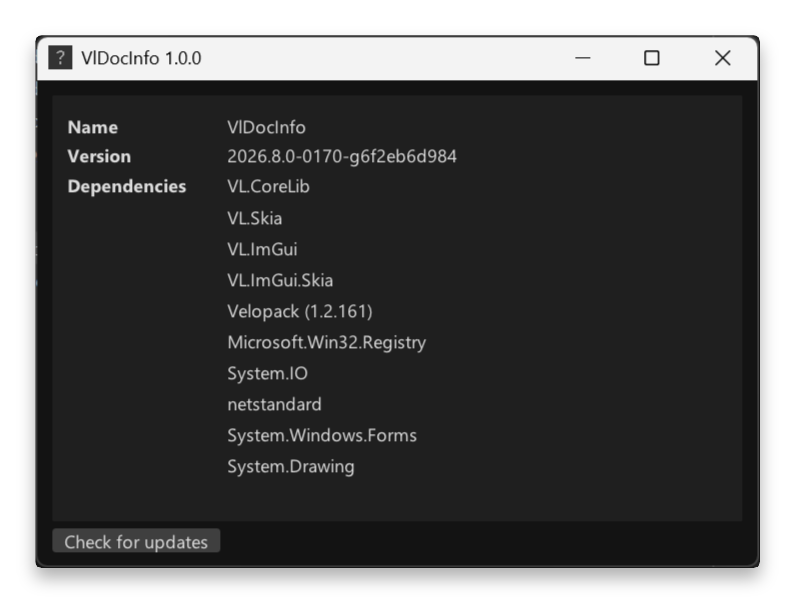
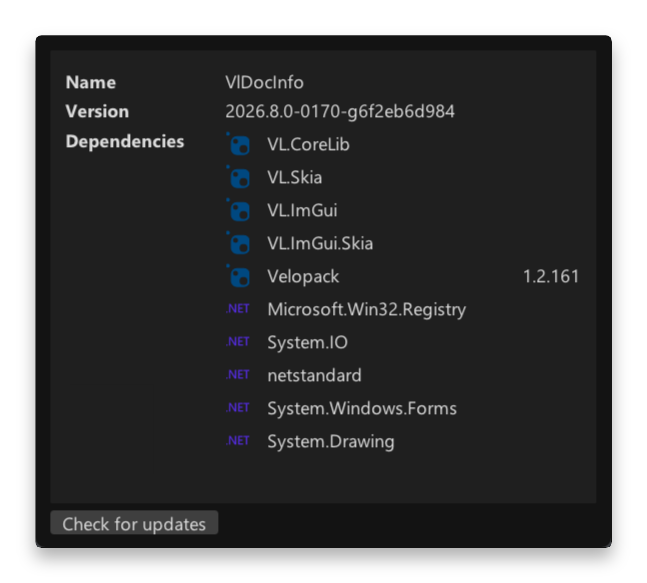
Adds README, updates screenshots

Changed region(s): [[0.0309, 0.0309, 0.9583, 0.9571], [0.8037, 0.4631, 0.8964, 0.494]]

diff --git a/README.md b/README.md
@@ -1,0 +1,36 @@
+# VlDocInfo
+
+[![vvvv](https://img.shields.io/static/v1?label=MADE%20WITH&message=VVVV&color=191919&style=for-the-badge)](https://vvvv.org/) ![GitHub Release](https://img.shields.io/github/v/release/sebescudie/vldocinfo?include_prereleases&style=for-the-badge&logo=github&link=https%3A%2F%2Fgithub.com%2Fsebescudie%2FVlDocInfo%2Freleases%2Flatest)
+
+Get information about your VL documents without opening them!
+
+<p align="center">
+	<img src="img/contextmenu.png" title="Context menu" alt="VlDocInfo context menu" width=1024>
+</p>
+
+This app adds an explorer context menu entry for VL documents and lets you see information about your document at a glance.
+
+## Installation
+
+Go to this repository's [Releases](https://github.com/sebescudie/VlDocInfo/releases/latest) section and either download the installer or the portable version. The app features an auto-updater, so you'll be notified when a new version is available.
+
+## Features
+
+The app will show the following information
+
+- Version the document was last saved with
+- Dependencies 
+
+<p align="center">
+	<img src="img/capture.png" width="512" title="Capture" alt="VlDocInfo capture" width=1024>
+</p>
+
+## Next up
+
+- Show if a dependency is forwarded
+- Definitions
+- Categories hierarchy
+- Count nodes, pads and links, just for "fun"
+- Check if DocumentDependency elements resolve irl
+- Is the referenced vvvv version installed?
+- Is editor extension?
